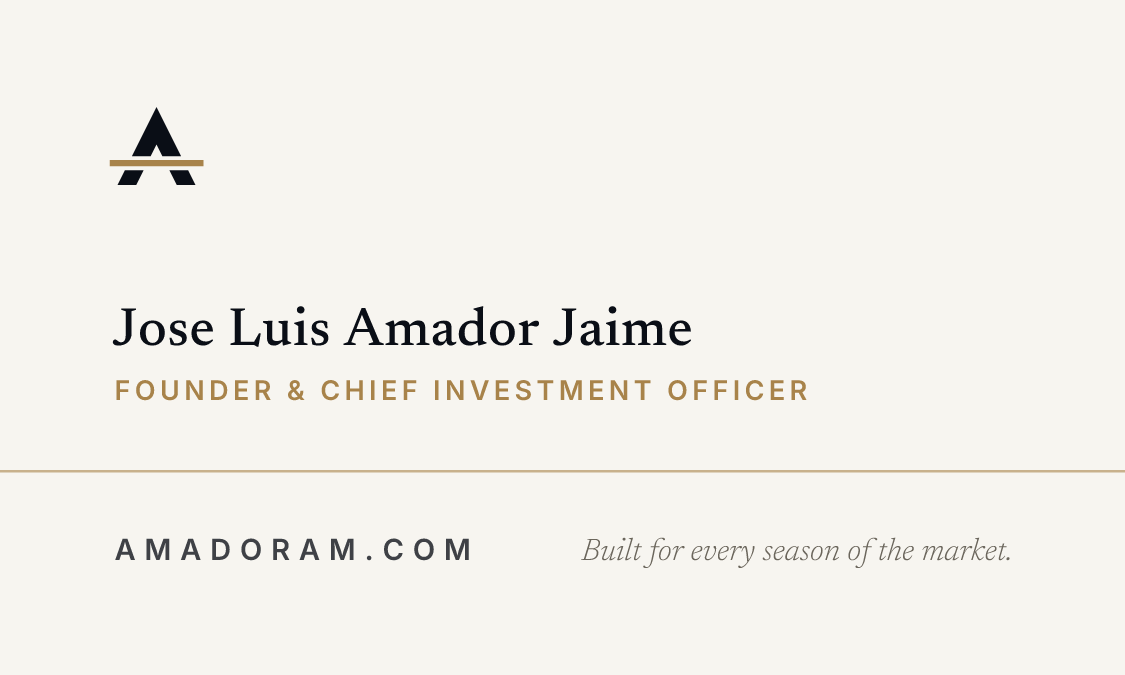
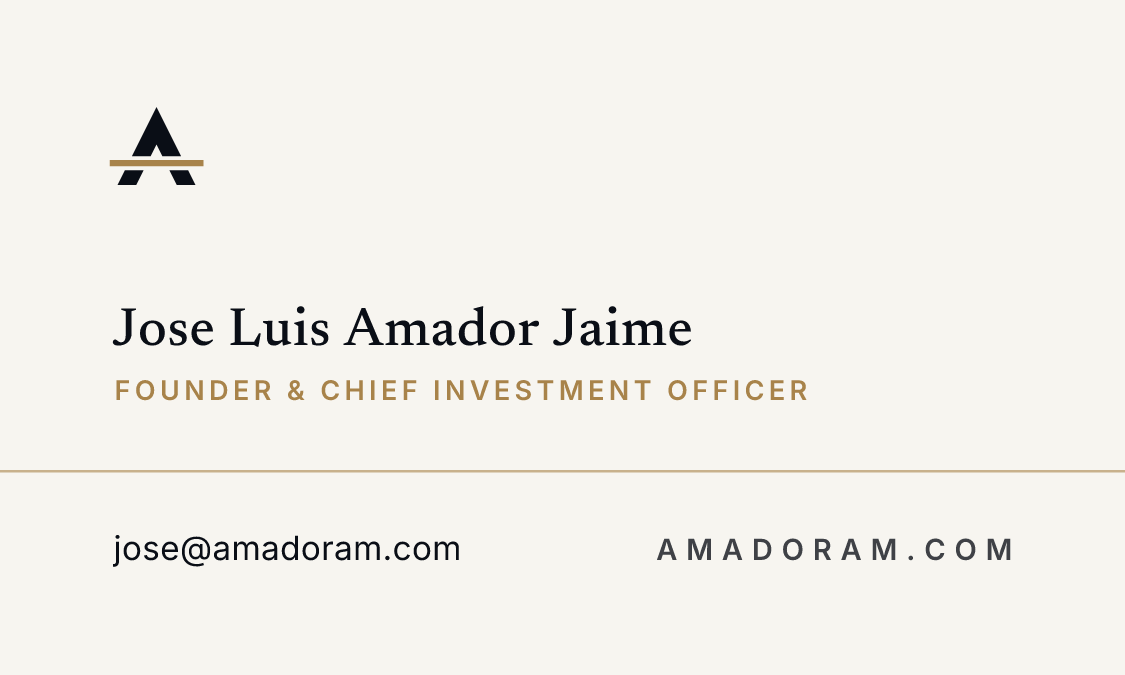
Show info@amadoram.com as the public contact; add jose@amadoram.com to the business card and an HTML email signature

Changed region(s): [[0.5289, 0.7778, 0.9022, 0.84], [0.0933, 0.7778, 0.4356, 0.84]]

diff --git a/public/brand/email-signature.html b/public/brand/email-signature.html
@@ -1,0 +1,16 @@
+<!doctype html>
+<html lang="en">
+<head>
+<meta charset="utf-8">
+<meta name="viewport" content="width=device-width, initial-scale=1">
+<title>Amador email signature</title>
+</head>
+<body style="margin:0;padding:32px;background:#ffffff;">
+<table cellpadding="0" cellspacing="0" border="0" role="presentation" style="border-collapse:collapse;font-family:Arial,Helvetica,sans-serif;color:#0A0E16;">
+  <tr><td style="padding:0 0 2px 0;font-size:15px;font-weight:bold;">Jose Luis Amador Jaime</td></tr>
+  <tr><td style="padding:0 0 12px 0;font-size:13px;color:#3D4250;">Founder &amp; Chief Investment Officer</td></tr>
+  <tr><td style="padding:0 0 10px 0;"><a href="https://amadoram.com"><img src="https://amadoram.com/brand/png/email-signature-logo-600x150.png" width="300" height="75" alt="Amador Asset Management" style="display:block;border:0;"></a></td></tr>
+  <tr><td style="font-size:13px;line-height:20px;"><a href="mailto:jose@amadoram.com" style="color:#0A0E16;text-decoration:none;">jose@amadoram.com</a>&nbsp;&nbsp;·&nbsp;&nbsp;<a href="https://amadoram.com" style="color:#8A6A3A;text-decoration:none;">amadoram.com</a></td></tr>
+</table>
+</body>
+</html>

diff --git a/src/lib/site.ts b/src/lib/site.ts
@@ -10,13 +10,15 @@ export const site = {
   url: process.env.NEXT_PUBLIC_SITE_URL ?? "http://localhost:3000",
   description:
     "Amador Asset Management is an independent investment firm built on research, risk discipline and transparency: portfolio research, live market signals, investor education and the forthcoming Amador Nautilus Fund.",
-  // Public contact email is optional; when unset, pages route people to the forms.
-  email: process.env.NEXT_PUBLIC_CONTACT_EMAIL ?? "",
+  // Public contact email (contact page and footer). NEXT_PUBLIC_CONTACT_EMAIL overrides it.
+  email: process.env.NEXT_PUBLIC_CONTACT_EMAIL || "info@amadoram.com",
   // TODO: confirm the city shown publicly.
   location: "Chicago, Illinois",
   founder: {
     name: "Jose Luis Amador Jaime",
     role: "Founder & Chief Investment Officer",
+    // Used on the business card and email signature (npm run brand), not shown on the site.
+    email: "jose@amadoram.com",
   },
   socials: [
     // TODO: add the real handles. Empty hrefs are hidden automatically.

diff --git a/README.md b/README.md
@@ -120,7 +120,7 @@ The logo (designed on a Claude Design canvas) is an **A drawn as a sail on a bra
 | `png/social-avatar-1080.png` | YouTube, X, LinkedIn, Instagram avatar |
 | `png/linkedin-banner-1584x396.png`, `png/linkedin-company-cover-1128x191.png` | LinkedIn profile background and company page cover |
 | `png/x-header-1500x500.png`, `png/youtube-banner-2560x1440.png` | X header and YouTube channel art (logo inside each safe area) |
-| `png/email-signature-logo-600x150.png` | Email signature logo; insert at 300 × 75 |
+| `email-signature.html`, `png/email-signature-logo-600x150.png` | Email signature (name, title, jose@amadoram.com): open amadoram.com/brand/email-signature.html, copy it and paste it into your mail client's signature settings |
 | `png/business-card-front-1125x675.png`, `png/business-card-back-1125x675.png` | Business cards, 300 dpi with ⅛ in bleed |
 | `nautilus-fund-lockup*.svg`, `png/nautilus-fund-lockup-1600.png` | Nautilus Fund sub-brand |
 
